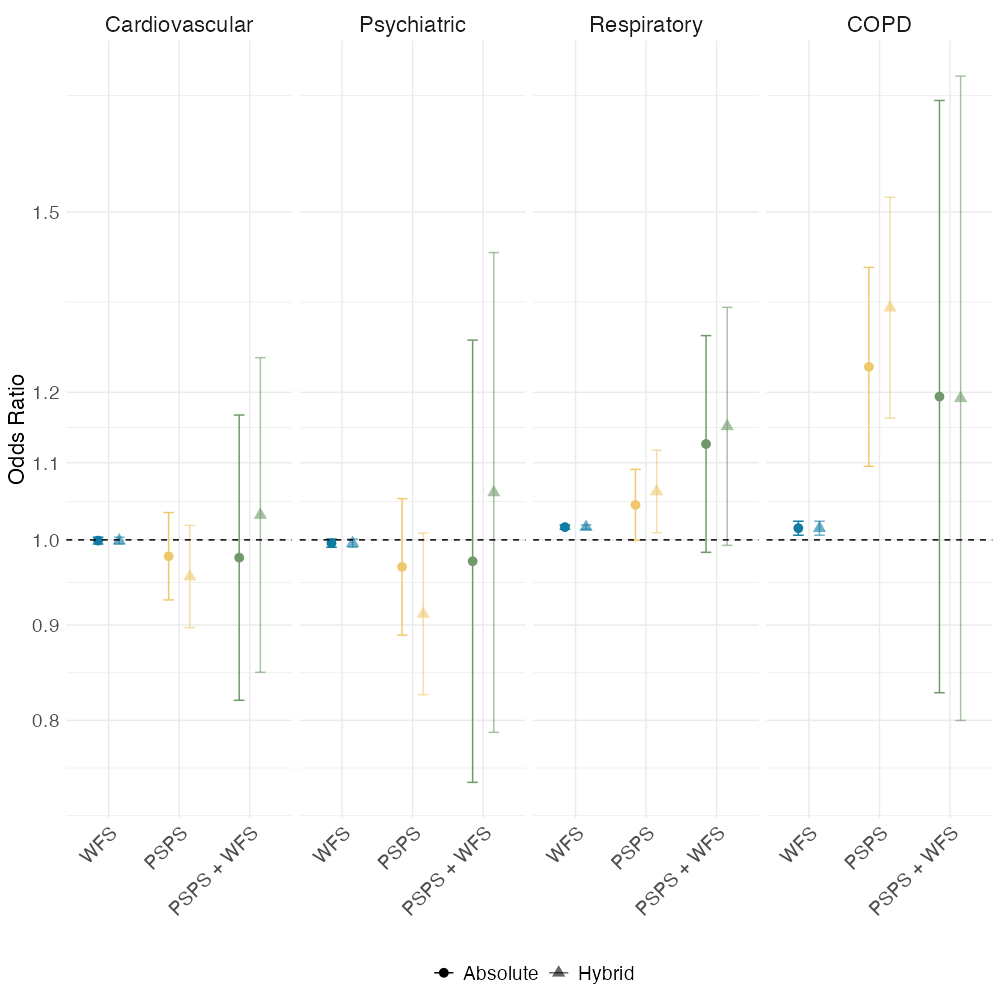
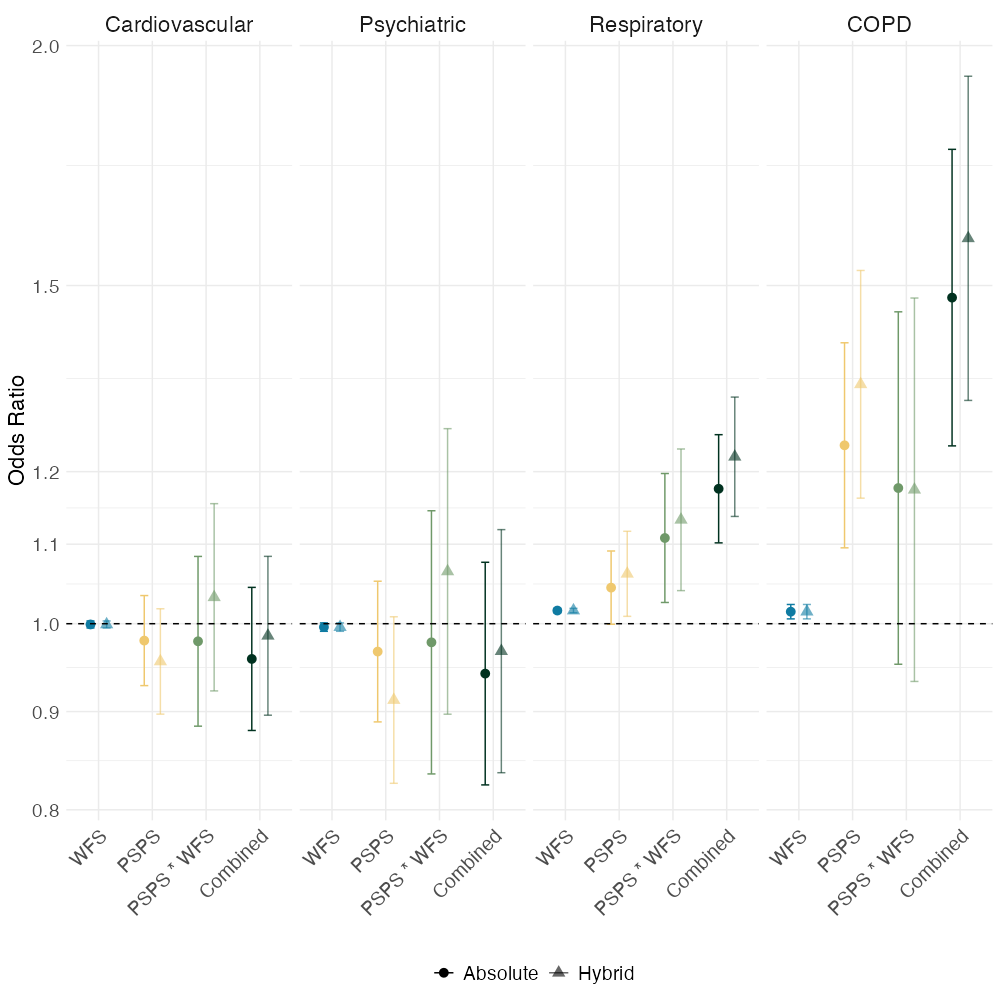
update to how we will report and handle the interaction term

diff --git a/analysis-values.tex b/analysis-values.tex
@@ -8,6 +8,12 @@
 \newcommand{\copdabscihigh}{1.40}
 \newcommand{\copdabscilow}{1.10}
 \newcommand{\copdabsor}{1.24}
+\newcommand{\copdcombabshigh}{1.77}
+\newcommand{\copdcombabslow}{1.24}
+\newcommand{\copdcombabsor}{1.48}
+\newcommand{\copdcombhybhigh}{1.93}
+\newcommand{\copdcombhyblow}{1.31}
+\newcommand{\copdcombhybor}{1.59}
 \newcommand{\copdhybcihigh}{1.53}
 \newcommand{\copdhybcilow}{1.16}
 \newcommand{\copdhybor}{1.33}
@@ -20,6 +26,12 @@
 \newcommand{\respabscilow}{1.00}
 \newcommand{\respabsor}{1.04}
 \newcommand{\respcasedayssev}{18,159}
+\newcommand{\respcombabshigh}{1.25}
+\newcommand{\respcombabslow}{1.10}
+\newcommand{\respcombabsor}{1.18}
+\newcommand{\respcombhybhigh}{1.31}
+\newcommand{\respcombhyblow}{1.14}
+\newcommand{\respcombhybor}{1.22}
 \newcommand{\resphybcihigh}{1.12}
 \newcommand{\resphybcilow}{1.01}
 \newcommand{\resphybor}{1.06}
